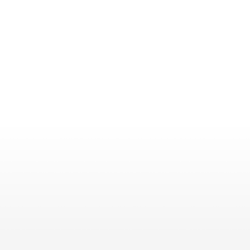
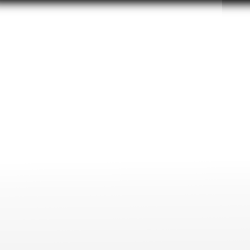
Some more work on the interface

Changed region(s): [[0.0, 0.0, 1.0, 0.056]]

diff --git a/public/css/style.css b/public/css/style.css
@@ -60,7 +60,7 @@
 
 .thumbnail-picture {
   display: block;
-  border: 1px solid #DDD;
+  border: 1px solid black;
   -webkit-box-shadow: 0 1px 3px rgba(0, 0, 0, 0.055);
   -moz-box-shadow: 0 1px 3px rgba(0, 0, 0, 0.055);
   box-shadow: 0 1px 3px rgba(0, 0, 0, 0.055);
@@ -68,15 +68,52 @@
   -moz-transition: all 0.2s ease-in-out;
   -o-transition: all 0.2s ease-in-out;
   transition: all 0.2s ease-in-out;
+  -webkit-border-radius: 6px;
+     -moz-border-radius: 6px;
+          border-radius: 6px;
+}
+
+.thumbnail-picture img {
+  -webkit-border-radius: 6px;
+     -moz-border-radius: 6px;
+          border-radius: 6px;
+}
+
+.thumbnails {
+  margin-left: -18px;
+}
+
+.thumbnails > li {
+  float: left;
+  margin-bottom: 20px;
+  margin-left: 20px;
+}
+
+.navbar-color .navbar-inner {
+  background-color: #1b1b1b;
+  background-image: -moz-linear-gradient(top, #959595, #3F3F3F);
+  background-image: -webkit-gradient(linear, 0 0, 0 100%, from(#959595), to(#3F3F3F));
+  background-image: -webkit-linear-gradient(top, #959595, #3F3F3F);
+  background-image: -o-linear-gradient(top, #959595, #3F3F3F);
+  background-image: linear-gradient(to bottom, #959595, #3F3F3F);
+  background-repeat: repeat-x;
+  border-color: #252525;
+  filter: progid:dximagetransform.microsoft.gradient(startColorstr='#959595', endColorstr='#3F3F3F', GradientType=0);
+}
+
+.navbar-color .brand,
+.navbar-color .nav > li > a {
+  color: white;
+  text-shadow: 0 -1px 0 rgba(0, 0, 0, 0.25);
 }
 
 .main-overlay {
   z-index: 2;
   position: absolute;
-  top: 100px;
-  bottom: 60px;
-  left: 265px;
-  right: 60px;
+  top: 40px;
+  bottom: 0px;
+  left: 270px;
+  right: 0px;
   margin-bottom: 0px;
 }
 
@@ -93,7 +130,7 @@
 
 .main-overlay-background {
   z-index: -1;
-  opacity: 0.7;
+  opacity: 0.5;
   position: absolute;
   top: 0px;
   bottom: 0px;
@@ -108,13 +145,14 @@
 
 .main-overlay-content {
   position: absolute;
-  top: 42px;
+  top: 0px;
   bottom: 0px;
-  left: 35px;
+  left: 0px;
   right: 0px;
   overflow: auto;
-  padding-top: 30px;
-  padding-right: 30px;
+  padding-top: 20px;
+  padding-right: 20px;
+  padding-left: 20px;
 }
 
 .main-overlay-centered-form {

diff --git a/public/views/node/pictures/view.html b/public/views/node/pictures/view.html
@@ -1,28 +1,27 @@
 <div class="main-overlay" data-bind="slideVisible: nodeModel.picturesModel.show">
-  <div class="navbar">
-    <div class="navbar-inner">
-      <span class="brand" style="padding-left: 35px;">Items</span>
-      <ul class="nav pull-right">
-        <li>
-          <a class="dropdown-toggle" data-toggle="dropdown" href="#">
-            Filter
-            <span class="caret"></span>
-          </a>
-          <ul class="dropdown-menu" style="margin-right: 46px;">
-            <li><a href="#">Action</a></li>
-            <li><a href="#">Another action</a></li>
-            <li><a href="#">Something else here</a></li>
-            <li class="divider"></li>
-            <li><a href="#">Separated link</a></li>
-          </ul>
-        </li>
-        <li><a class="pull-right close" data-bind="hrefSecondPrimary: ''" style="font-size: 30px">×</a></li>
-      </ul>
-    </div>
-  </div>
-
-
   <div class="main-overlay-content" data-bind="event: { dragenter: nodeModel.picturesModel.dragNoopHandler, dragexit: nodeModel.picturesModel.dragNoopHandler, dragover: nodeModel.picturesModel.dragNoopHandler, drop: nodeModel.picturesModel.dragDropHandler }">
+
+    <div class="navbar navbar-inverse navbar-color">
+      <div class="navbar-inner">
+        <span class="brand" style="padding-left: 35px;">Items</span>
+        <ul class="nav pull-right">
+          <li>
+            <a class="dropdown-toggle" data-toggle="dropdown" href="#">
+              Filter
+              <span class="caret"></span>
+            </a>
+            <ul class="dropdown-menu" style="margin-right: 46px;">
+              <li><a href="#">Action</a></li>
+              <li><a href="#">Another action</a></li>
+              <li><a href="#">Something else here</a></li>
+              <li class="divider"></li>
+              <li><a href="#">Separated link</a></li>
+            </ul>
+          </li>
+          <li><a class="pull-right close" data-bind="hrefSecondPrimary: ''" style="font-size: 30px">×</a></li>
+        </ul>
+      </div>
+    </div>
 
     <ul class="thumbnails" data-bind="foreach: nodeModel.fileNodes">
       <li class="">

diff --git a/public/views/node/comments/view.html b/public/views/node/comments/view.html
@@ -1,27 +1,14 @@
 <div class="main-overlay" data-bind="slideVisible: nodeModel.commentsModel.show">
-  <div class="navbar">
-    <div class="navbar-inner">
-      <span class="brand" style="padding-left: 35px;">Comments</span>
-      <ul class="nav pull-right">
-        <li>
-          <a class="dropdown-toggle" data-toggle="dropdown" href="#">
-            Add
-            <span class="caret"></span>
-          </a>
-          <ul class="dropdown-menu" style="margin-right: 46px;">
-            <li><a href="#">Action</a></li>
-            <li><a href="#">Another action</a></li>
-            <li><a href="#">Something else here</a></li>
-            <li class="divider"></li>
-            <li><a href="#">Separated link</a></li>
-          </ul>
-        </li>
-        <li><a class="pull-right close" data-bind="hrefSecondPrimary: ''" style="font-size: 30px">×</a></li>
-      </ul>
-    </div>
-  </div>
-
   <div class="main-overlay-content" data-bind="if: nodeModel.node">
+  
+    <div class="navbar navbar-color navbar-inverse">
+      <div class="navbar-inner">
+        <span class="brand" style="padding-left: 35px;">Comments</span>
+        <ul class="nav pull-right">
+          <li><a class="pull-right close" data-bind="hrefSecondPrimary: ''" style="font-size: 30px">×</a></li>
+        </ul>
+      </div>
+    </div>
 
     <div class="row-fluid well" style="width: auto;">
       <div class="span2">

diff --git a/public/views/node/view.html b/public/views/node/view.html
@@ -1,4 +1,4 @@
-<div class="sidebar-nav" data-bind="fadeVisible: nodeModel.show, if: nodeModel.node">
+<div class="sidebar-nav" data-bind="fadeVisible: nodeModel.show, if: nodeModel.node" style="border-left: 1px solid #252525; border-right: 1px solid #252525;">
 
   <div style="position: relative; width: 250px; height: 250px; z-index: 100" data-bind="event: { drop: nodeModel.dragDrop, dragover: nodeModel.dragOver }">
     <div style="width: 250px; height: 250px; position: absolute; top: 0px; left: 0px; text-align: center; font-size: 30px; color: whiteSmoke; text-shadow: -1px 0 black, 0 1px black, 1px 0 black, 0 -1px black" data-bind="visible: nodeModel.showDrop() || !nodeModel.node()._profilePicture || !nodeModel.node()._profilePicture()">

diff --git a/public/views/node/style.css b/public/views/node/style.css
@@ -24,7 +24,7 @@
 
 .sidebar-nav-content {
   position: absolute;
-  top: 200px;
+  top: 230px;
   bottom: 0px;
   left: 0px;
   right: 0px;
